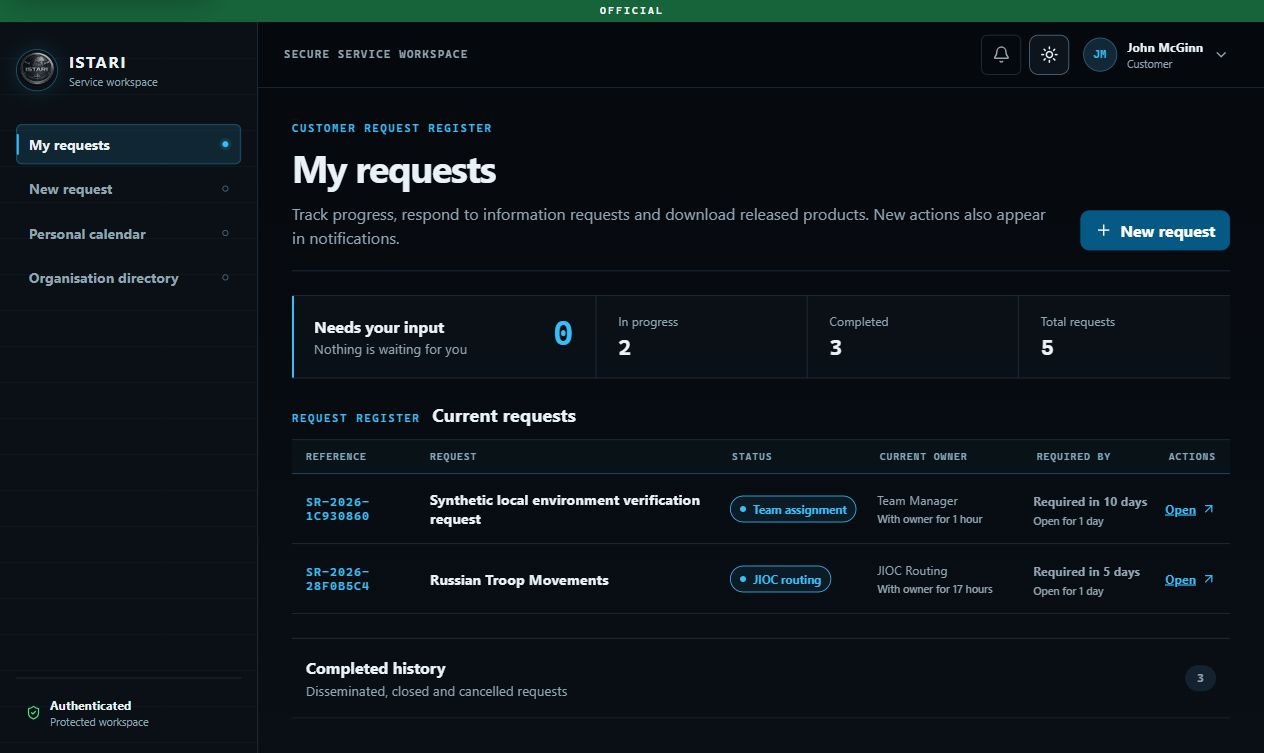
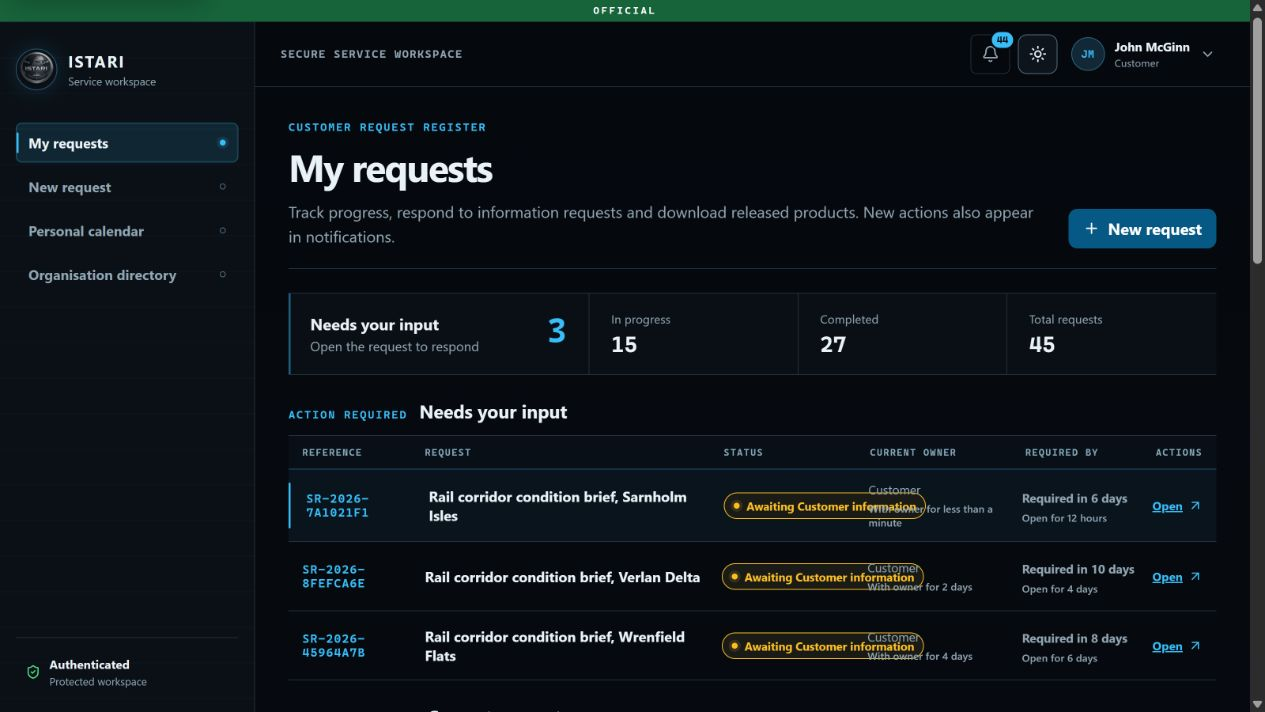
docs: refresh current application screenshots

diff --git a/docs/assurance/BROWSER_AND_WORKFLOW_EVIDENCE.md b/docs/assurance/BROWSER_AND_WORKFLOW_EVIDENCE.md
@@ -2,7 +2,7 @@
 
 This file contains current visual orientation and dated assurance records. The
 source-controlled screenshots below were captured from the running synthetic
-local application on 9 and 10 August 2026. Screenshots are refreshed when their
+local application between 9 and 11 August 2026. Screenshots are refreshed when their
 surface changes materially. The latest Customer form, Customer register, team
 board, calendar, people, CRIOC workspace and administration captures use the
 current local source and produced no browser warning or error. The images prove
@@ -44,9 +44,11 @@ password action remains subordinate to sign-in.
 ### Password assistance
 
 The anonymous assistance state accepts a governed work email and returns the
-same non-disclosing response. This synthetic example notified all active
-Platform Administrators and exposed only account `admin2`, not the submitted
-email, in their mandatory account-security notification.
+same non-disclosing response whether or not an active account matches. A valid
+submission notifies all active Platform Administrators and exposes only the
+matching account identifier, not the submitted email, in the mandatory
+account-security notification. The screenshot shows the state before any
+notification is sent.
 
 ![Forgotten-password assistance](../assets/screenshots/password-assistance.png)
 
@@ -70,9 +72,10 @@ while private incomplete drafts remain possible.
 
 ### Customer request tracking
 
-Customer `admin2` on `My requests`. The synthetic in-progress row shows current
-stage, owner role, service age, required-date proximity and a direct request
-link. Authenticated product download and feedback appear here after
+Customer `admin2` on `My requests`. The summary separates requests needing the
+Customer's input from other in-progress and completed requests. Each visible row
+shows its title, status, current owner, age, required-date proximity and a direct
+request link. Authenticated product download and feedback appear here after
 dissemination; the historical completed-journey evidence below proves that
 separate state-changing path.
 
